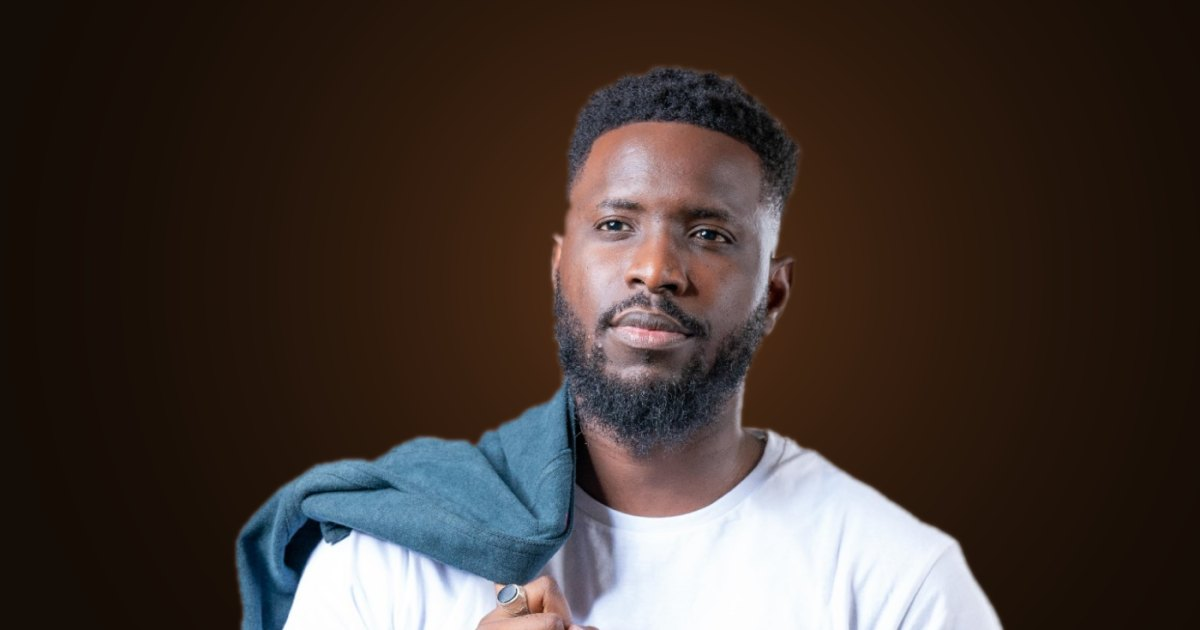
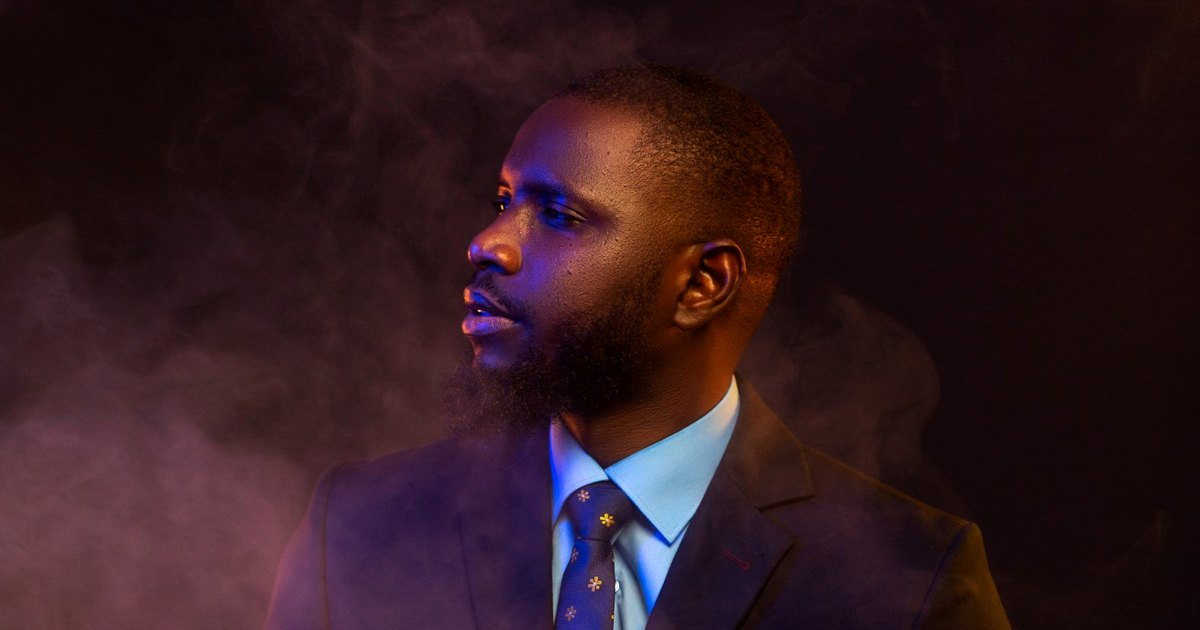
Add files via upload

diff --git a/css/style.css b/css/style.css
@@ -3,8 +3,8 @@
    Idée centrale : la filmographie se lit comme un générique de film (titres, points de conduite, saisons). */
 
 :root {
-  --ink: #140c06;
-  --ink-2: #1f140a;
+  --ink: #050403;
+  --ink-2: #0d0a07;
   --gold: #dcb65c;
   --copper: #c47a3d;
   --cream: #f3e8d2;
@@ -94,9 +94,9 @@ p { margin: 0 0 1rem; }
   position: absolute;
   inset: 0;
   background:
-    linear-gradient(90deg, var(--ink) 0%, rgba(20, 12, 6, 0.7) 18%, rgba(20, 12, 6, 0) 46%),
-    linear-gradient(0deg, var(--ink) 0%, rgba(20, 12, 6, 0) 24%),
-    linear-gradient(180deg, rgba(20, 12, 6, 0.6) 0%, rgba(20, 12, 6, 0) 16%);
+    linear-gradient(90deg, var(--ink) 0%, rgba(5, 4, 3, 0.7) 18%, rgba(5, 4, 3, 0) 46%),
+    linear-gradient(0deg, var(--ink) 0%, rgba(5, 4, 3, 0) 24%),
+    linear-gradient(180deg, rgba(5, 4, 3, 0.6) 0%, rgba(5, 4, 3, 0) 16%);
 }
 .hero-inner { position: relative; z-index: 2; width: 100%; max-width: min(46rem, 52vw); padding: 6.5rem clamp(16px, 2.4vw, 24px) 6rem max(clamp(24px, 4vw, 48px), env(safe-area-inset-left, 0px)); }
 .hero-tag { margin: 0 0 1.4rem; font-size: clamp(0.68rem, 0.8vw + 0.25rem, 0.82rem); font-weight: 500; letter-spacing: 0.1em; text-transform: uppercase; color: var(--gold); }
@@ -141,8 +141,8 @@ p { margin: 0 0 1rem; }
   .hero-photo .ph img { object-position: 50% 6%; }
   .hero-photo::after {
     background:
-      linear-gradient(0deg, var(--ink) 0%, rgba(20, 12, 6, 0.88) 22%, rgba(20, 12, 6, 0) 60%),
-      linear-gradient(180deg, var(--ink) 0%, rgba(20, 12, 6, 0) 10%);
+      linear-gradient(0deg, var(--ink) 0%, rgba(5, 4, 3, 0.88) 22%, rgba(5, 4, 3, 0) 60%),
+      linear-gradient(180deg, var(--ink) 0%, rgba(5, 4, 3, 0) 10%);
   }
   .hero-inner { max-width: none; padding: calc(84px + min(78vw, 540px)) max(20px, env(safe-area-inset-right, 0px)) 4.5rem max(20px, env(safe-area-inset-left, 0px)); }
   .hero-bio { font-size: 1.1rem; }

diff --git a/collaborations.html b/collaborations.html
@@ -5,7 +5,7 @@
 <meta name="viewport" content="width=device-width, initial-scale=1">
 <title>Collaborations | Bachir Diaw</title>
 <meta name="description" content="Collaborations de marque avec l’acteur Bachir Diaw : campagnes, séries institutionnelles, contenus digitaux et ambassadeur de marque.">
-<meta name="theme-color" content="#140c06">
+<meta name="theme-color" content="#050403">
 <link rel="canonical" href="https://bachirdiaw.com/collaborations">
 <link rel="alternate" hreflang="fr" href="https://bachirdiaw.com/collaborations">
 <link rel="alternate" hreflang="en" href="https://bachirdiaw.com/en/collaborations">

diff --git a/en/collaborations.html b/en/collaborations.html
@@ -5,7 +5,7 @@
 <meta name="viewport" content="width=device-width, initial-scale=1">
 <title>Collaborations | Bachir Diaw</title>
 <meta name="description" content="Brand collaborations with actor Bachir Diaw: campaigns, institutional series, digital content and brand ambassador work.">
-<meta name="theme-color" content="#140c06">
+<meta name="theme-color" content="#050403">
 <link rel="canonical" href="https://bachirdiaw.com/en/collaborations">
 <link rel="alternate" hreflang="fr" href="https://bachirdiaw.com/collaborations">
 <link rel="alternate" hreflang="en" href="https://bachirdiaw.com/en/collaborations">

diff --git a/index.html b/index.html
@@ -5,7 +5,7 @@
 <meta name="viewport" content="width=device-width, initial-scale=1">
 <title>Bachir Diaw | Acteur de cinéma et de télévision</title>
 <meta name="description" content="Site officiel de Bachir Diaw, acteur sénégalais : rôles dans Karma, Infidèles et Fassema, séries institutionnelles, showreel et contact.">
-<meta name="theme-color" content="#140c06">
+<meta name="theme-color" content="#050403">
 <link rel="canonical" href="https://bachirdiaw.com/">
 <link rel="alternate" hreflang="fr" href="https://bachirdiaw.com/">
 <link rel="alternate" hreflang="en" href="https://bachirdiaw.com/en/">

diff --git a/institutionnel.html b/institutionnel.html
@@ -5,7 +5,7 @@
 <meta name="viewport" content="width=device-width, initial-scale=1">
 <title>Institutionnel | Bachir Diaw</title>
 <meta name="description" content="Séries institutionnelles de Bachir Diaw : El Tac Tico, La baisse des prix du loyer au Sénégal, TIER et Horizon Halal.">
-<meta name="theme-color" content="#140c06">
+<meta name="theme-color" content="#050403">
 <link rel="canonical" href="https://bachirdiaw.com/institutionnel">
 <link rel="alternate" hreflang="fr" href="https://bachirdiaw.com/institutionnel">
 <link rel="alternate" hreflang="en" href="https://bachirdiaw.com/en/institutional">

diff --git a/roles/beaute-maudite.html b/roles/beaute-maudite.html
@@ -5,7 +5,7 @@
 <meta name="viewport" content="width=device-width, initial-scale=1">
 <title>Beauté Maudite, saison 1 | Bachir Diaw</title>
 <meta name="description" content="Bachir Diaw dans Beauté Maudite (saison 1) : personnage, synopsis et photos de tournage.">
-<meta name="theme-color" content="#140c06">
+<meta name="theme-color" content="#050403">
 <link rel="canonical" href="https://bachirdiaw.com/roles/beaute-maudite">
 <link rel="alternate" hreflang="fr" href="https://bachirdiaw.com/roles/beaute-maudite">
 <link rel="alternate" hreflang="en" href="https://bachirdiaw.com/en/roles/beaute-maudite">

diff --git a/en/institutional.html b/en/institutional.html
@@ -5,7 +5,7 @@
 <meta name="viewport" content="width=device-width, initial-scale=1">
 <title>Institutional | Bachir Diaw</title>
 <meta name="description" content="Bachir Diaw’s institutional series: El Tac Tico, La baisse des prix du loyer au Sénégal, TIER and Horizon Halal.">
-<meta name="theme-color" content="#140c06">
+<meta name="theme-color" content="#050403">
 <link rel="canonical" href="https://bachirdiaw.com/en/institutional">
 <link rel="alternate" hreflang="fr" href="https://bachirdiaw.com/institutionnel">
 <link rel="alternate" hreflang="en" href="https://bachirdiaw.com/en/institutional">

diff --git a/en/roles/beaute-maudite.html b/en/roles/beaute-maudite.html
@@ -5,7 +5,7 @@
 <meta name="viewport" content="width=device-width, initial-scale=1">
 <title>Beauté Maudite, season 1 | Bachir Diaw</title>
 <meta name="description" content="Bachir Diaw in Beauté Maudite (season 1): character, synopsis and on-set photos.">
-<meta name="theme-color" content="#140c06">
+<meta name="theme-color" content="#050403">
 <link rel="canonical" href="https://bachirdiaw.com/en/roles/beaute-maudite">
 <link rel="alternate" hreflang="fr" href="https://bachirdiaw.com/roles/beaute-maudite">
 <link rel="alternate" hreflang="en" href="https://bachirdiaw.com/en/roles/beaute-maudite">

diff --git a/en/index.html b/en/index.html
@@ -5,7 +5,7 @@
 <meta name="viewport" content="width=device-width, initial-scale=1">
 <title>Bachir Diaw | Film and television actor</title>
 <meta name="description" content="Official website of Bachir Diaw, Senegalese actor: roles in Karma, Infidèles and Fassema, institutional series, showreel and contact.">
-<meta name="theme-color" content="#140c06">
+<meta name="theme-color" content="#050403">
 <link rel="canonical" href="https://bachirdiaw.com/en/">
 <link rel="alternate" hreflang="fr" href="https://bachirdiaw.com/">
 <link rel="alternate" hreflang="en" href="https://bachirdiaw.com/en/">

diff --git a/roles/infideles.html b/roles/infideles.html
@@ -5,7 +5,7 @@
 <meta name="viewport" content="width=device-width, initial-scale=1">
 <title>Infidèles, saisons 2 et 3 | Bachir Diaw</title>
 <meta name="description" content="Bachir Diaw dans Infidèles (saisons 2 et 3) : personnage, synopsis et photos de tournage.">
-<meta name="theme-color" content="#140c06">
+<meta name="theme-color" content="#050403">
 <link rel="canonical" href="https://bachirdiaw.com/roles/infideles">
 <link rel="alternate" hreflang="fr" href="https://bachirdiaw.com/roles/infideles">
 <link rel="alternate" hreflang="en" href="https://bachirdiaw.com/en/roles/infideles">

diff --git a/en/roles/infideles.html b/en/roles/infideles.html
@@ -5,7 +5,7 @@
 <meta name="viewport" content="width=device-width, initial-scale=1">
 <title>Infidèles, seasons 2 and 3 | Bachir Diaw</title>
 <meta name="description" content="Bachir Diaw in Infidèles (seasons 2 and 3): character, synopsis and on-set photos.">
-<meta name="theme-color" content="#140c06">
+<meta name="theme-color" content="#050403">
 <link rel="canonical" href="https://bachirdiaw.com/en/roles/infideles">
 <link rel="alternate" hreflang="fr" href="https://bachirdiaw.com/roles/infideles">
 <link rel="alternate" hreflang="en" href="https://bachirdiaw.com/en/roles/infideles">

diff --git a/roles/derapages.html b/roles/derapages.html
@@ -5,7 +5,7 @@
 <meta name="viewport" content="width=device-width, initial-scale=1">
 <title>Dérapages, saison 2 | Bachir Diaw</title>
 <meta name="description" content="Bachir Diaw dans Dérapages (saison 2) : personnage, synopsis et photos de tournage.">
-<meta name="theme-color" content="#140c06">
+<meta name="theme-color" content="#050403">
 <link rel="canonical" href="https://bachirdiaw.com/roles/derapages">
 <link rel="alternate" hreflang="fr" href="https://bachirdiaw.com/roles/derapages">
 <link rel="alternate" hreflang="en" href="https://bachirdiaw.com/en/roles/derapages">
